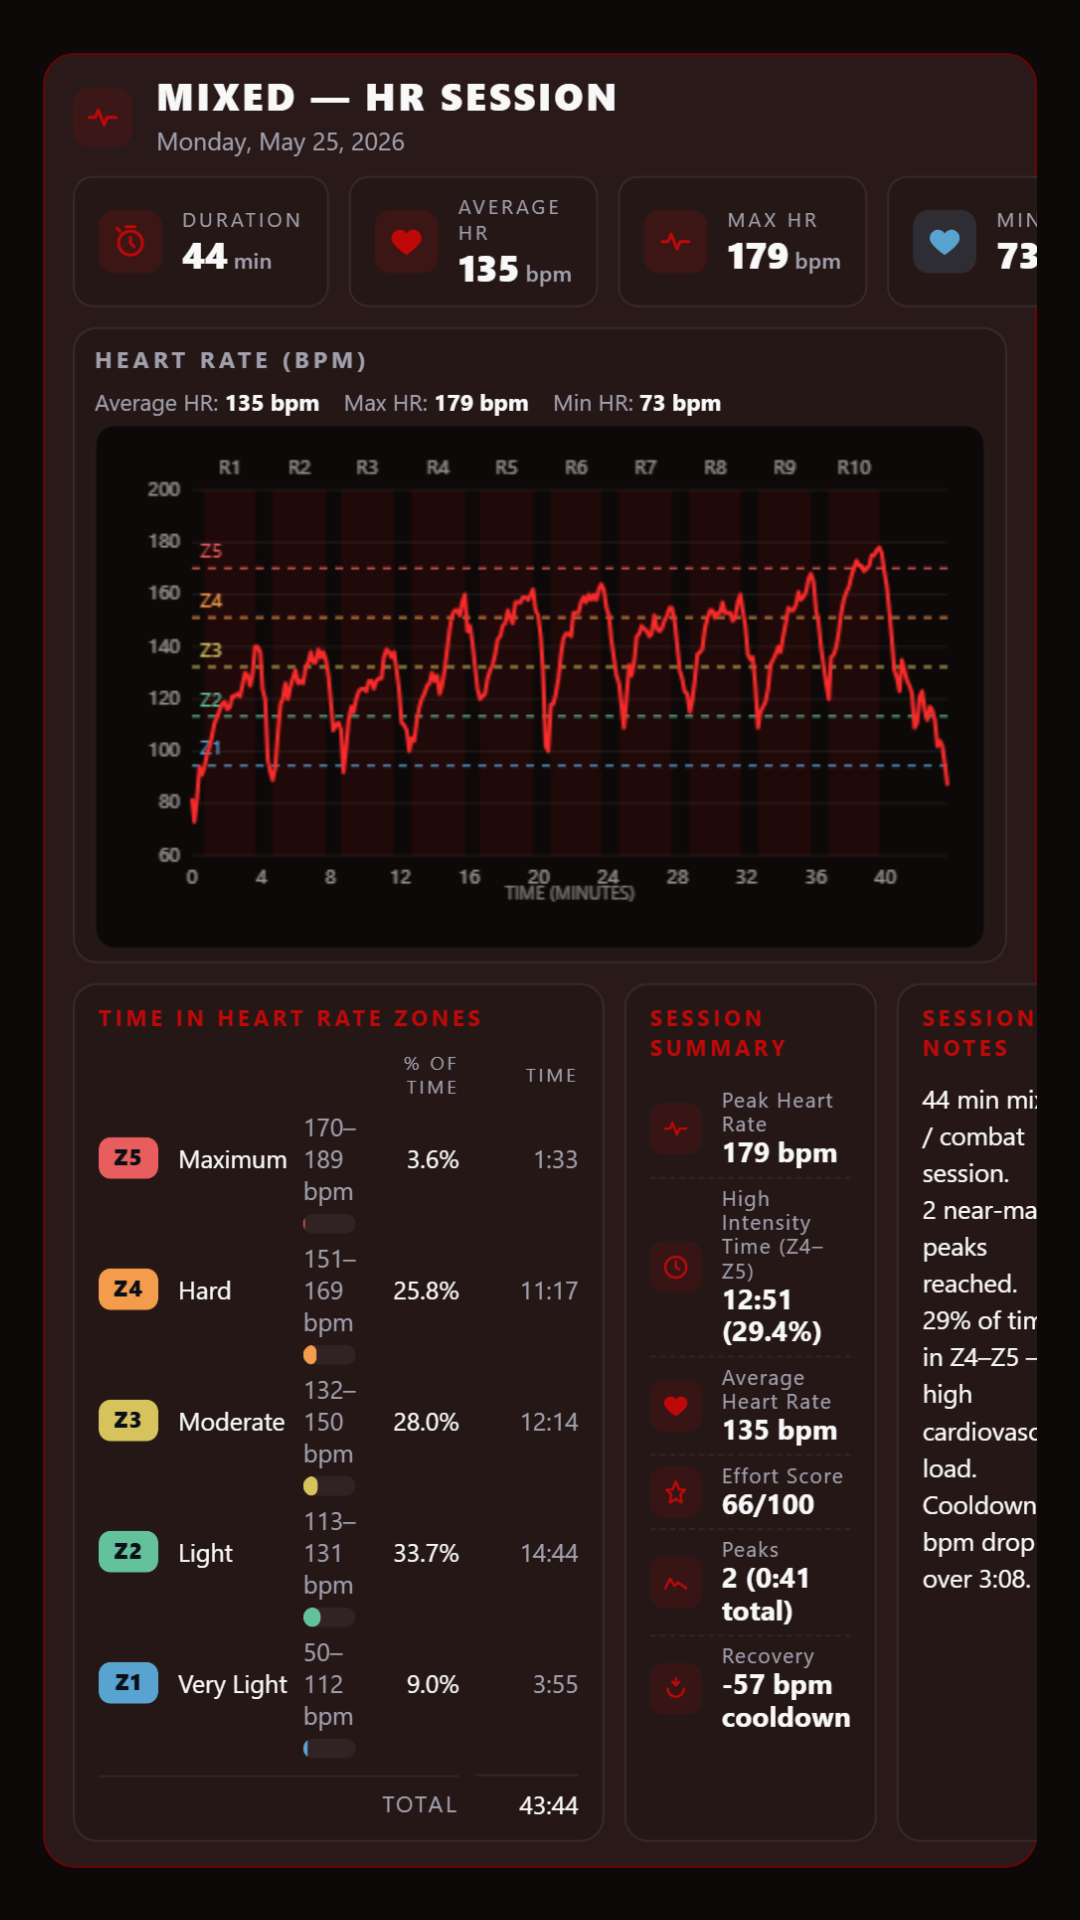
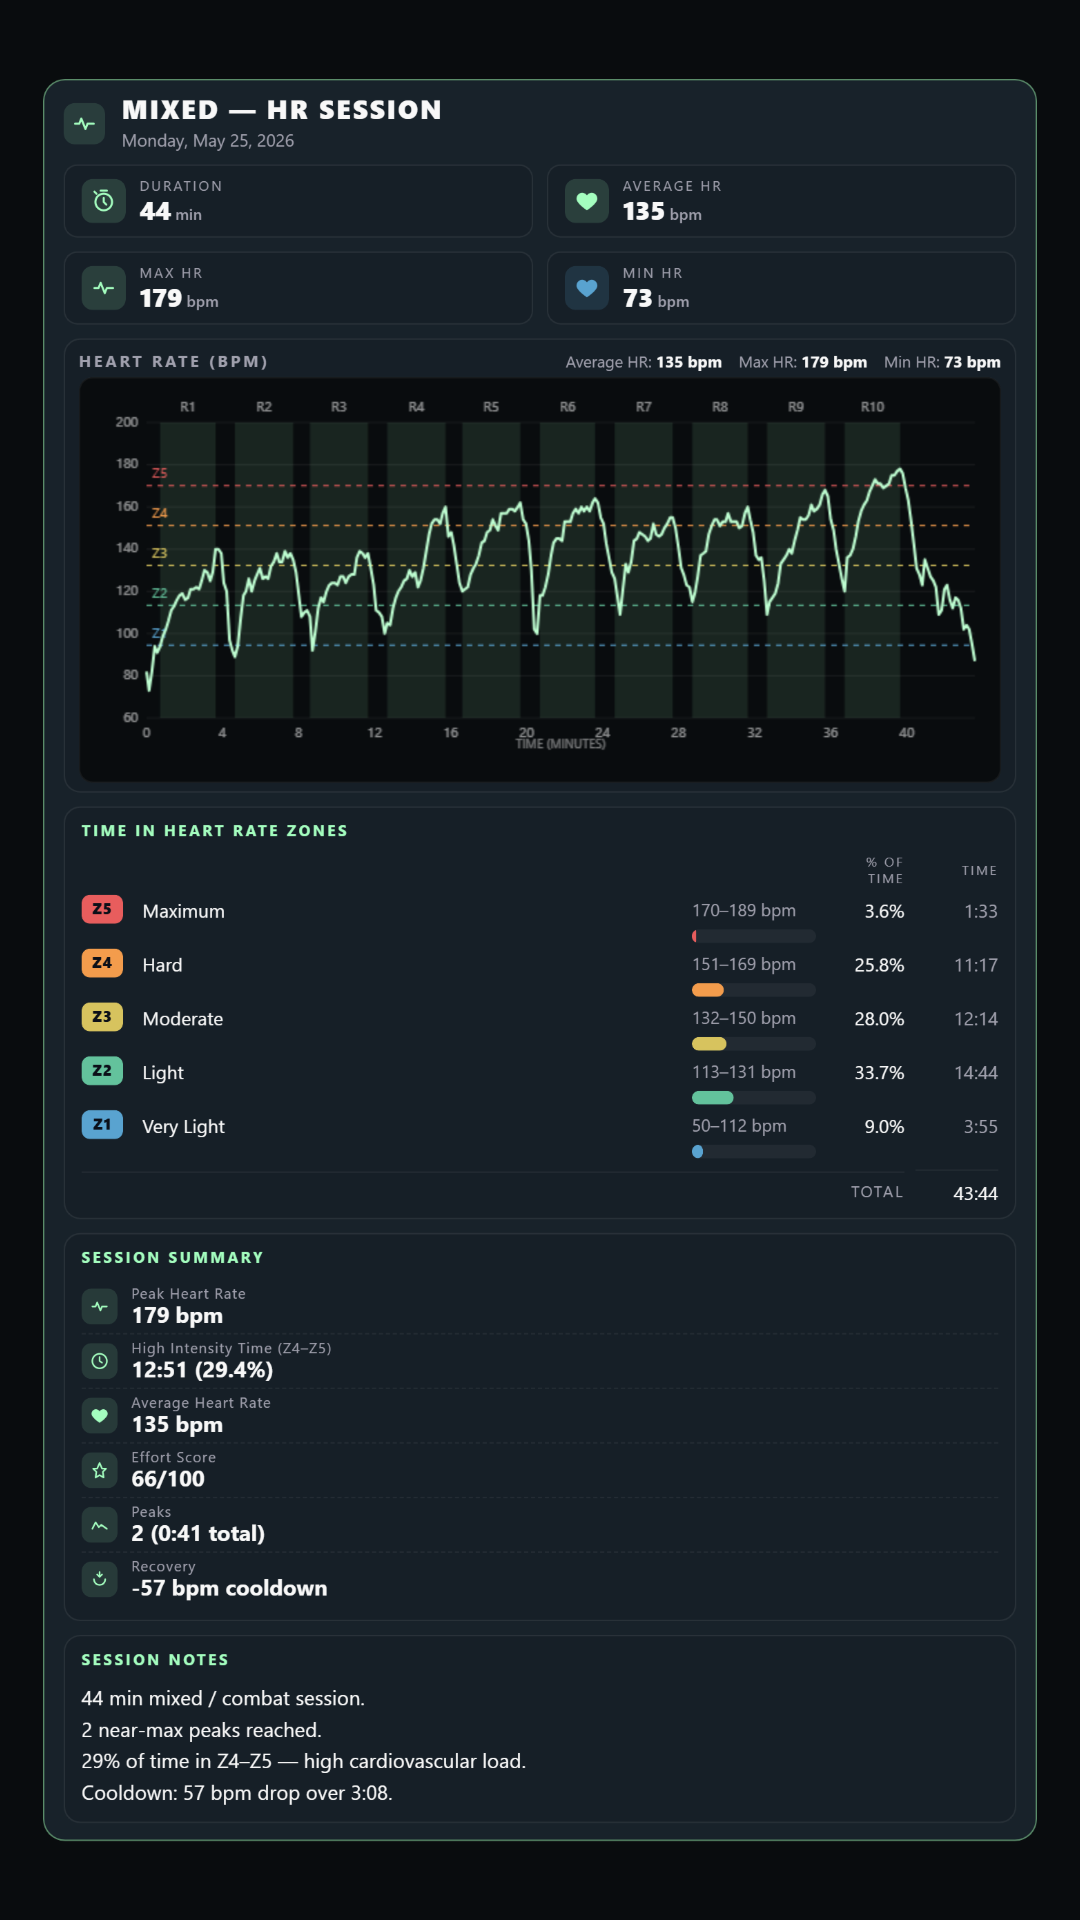
Story export: full-width zone bars + bigger stat tiles, chart, text
- Zone bars span full row width via grid-column: 1 / -1 (empty grid
  placeholder cells hidden with :empty in narrow mode) so each bar
  fills the panel horizontally as a true progress bar
- Stat tiles padding/icons/numbers enlarged (value 1.15 -> 1.7rem)
  so the 2x2 grid reads well at 1080x1920
- Chart height in story 280 -> 360, title/subtitle and card chrome
  scaled up to match
- Summary row icons and values enlarged proportionally
- Zones table font 0.85 -> 0.95 with taller bar (14px) and extra
  bottom spacing

diff --git a/analysis.html b/analysis.html
@@ -581,15 +581,51 @@
             display: none !important;
         }
 
-        .analysis-panel.export-narrow .stat-strip { grid-template-columns: repeat(2, 1fr); }
+        .analysis-panel.export-narrow .stat-strip { grid-template-columns: repeat(2, 1fr); gap: 14px; }
+        .analysis-panel.export-narrow .stat-tile { padding: 14px 16px; gap: 14px; }
+        .analysis-panel.export-narrow .stat-tile .stat-icon { width: 42px; height: 42px; border-radius: 10px; }
+        .analysis-panel.export-narrow .stat-tile .stat-icon svg { width: 24px; height: 24px; }
+        .analysis-panel.export-narrow .stat-tile .stat-label { font-size: 0.7rem; }
+        .analysis-panel.export-narrow .stat-tile .stat-value { font-size: 1.7rem; }
+        .analysis-panel.export-narrow .stat-tile .stat-unit { font-size: 0.85rem; }
         .analysis-panel.export-narrow .bottom-grid { grid-template-columns: 1fr; }
-        .analysis-panel.export-narrow #analysisChart { height: 280px; }
+        .analysis-panel.export-narrow #analysisChart { height: 360px; }
+        .analysis-panel.export-narrow .analysis-card { padding: 16px 18px; }
+        .analysis-panel.export-narrow .analysis-card-title { font-size: 0.78rem; margin-bottom: 12px; }
+
+        /* Full-width zone bars in narrow/story mode */
         .analysis-panel.export-narrow .zones-table {
-            grid-template-columns: 36px 1fr 90px 56px 60px;
-            font-size: 0.85rem;
+            grid-template-columns: 38px 1fr auto auto auto;
+            gap: 4px 12px;
+            font-size: 0.95rem;
         }
-        .analysis-panel.export-narrow .session-notes { font-size: 0.92rem; line-height: 1.55; }
-        .analysis-panel.export-narrow .summary-row .stext .sval { font-size: 1rem; }
+        .analysis-panel.export-narrow .zones-table .zthead { font-size: 0.65rem; }
+        .analysis-panel.export-narrow .zones-table .zrange { font-size: 0.85rem; }
+        .analysis-panel.export-narrow .zones-table .zchip {
+            width: 36px; padding: 5px 0; font-size: 0.78rem; border-radius: 7px;
+        }
+        .analysis-panel.export-narrow .zones-table > div:empty { display: none; }
+        .analysis-panel.export-narrow .zones-table .zbar {
+            grid-column: 1 / -1;
+            height: 14px;
+            margin: 2px 0 8px;
+        }
+        .analysis-panel.export-narrow .zones-table .ztotal,
+        .analysis-panel.export-narrow .zones-table .ztotal-val {
+            font-size: 0.8rem;
+        }
+
+        .analysis-panel.export-narrow .session-notes { font-size: 1rem; line-height: 1.6; }
+        .analysis-panel.export-narrow .summary-row { padding: 8px 0; gap: 14px; }
+        .analysis-panel.export-narrow .summary-row .sicon { width: 34px; height: 34px; border-radius: 8px; }
+        .analysis-panel.export-narrow .summary-row .sicon svg { width: 18px; height: 18px; }
+        .analysis-panel.export-narrow .summary-row .stext .slabel { font-size: 0.78rem; }
+        .analysis-panel.export-narrow .summary-row .stext .sval { font-size: 1.15rem; }
+
+        .analysis-panel.export-narrow .analysis-title { font-size: 1.5rem; }
+        .analysis-panel.export-narrow .analysis-sub { font-size: 0.95rem; }
+        .analysis-panel.export-narrow .analysis-title-icon { width: 42px; height: 42px; border-radius: 10px; }
+        .analysis-panel.export-narrow .analysis-title-icon svg { width: 26px; height: 26px; }
 
         .export-select {
             background: var(--panel);